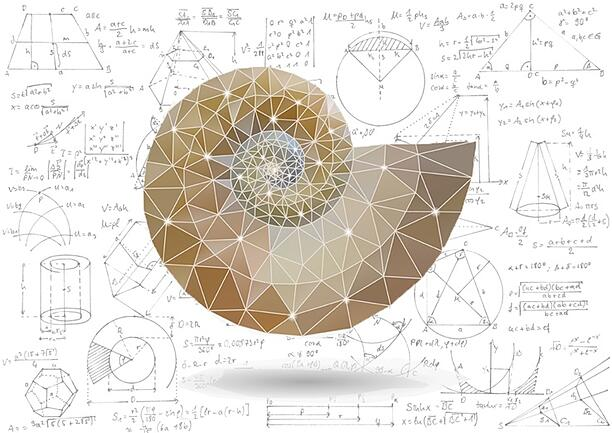
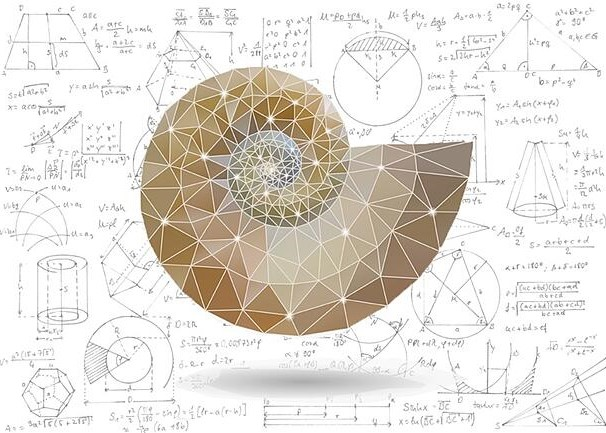
image resizing, blog post upates

diff --git a/blog.html b/blog.html
@@ -20,13 +20,16 @@
     <div class="content" id="all-blog-posts">
       <div class="blogpost-grid">
         
-        <div class="blogpost-box" style="display:none">
-          <p>Information is beatiful event?</p>
+        <div class="blogpost-box">
+          <img src="static/images/iib.jpg" class="blogpost-pic">
+          <div class="blogpost-title">Information is beatiful - the live event</div>
+          <div class="blogpost-subtitle">November 2024</div>
+          <button class="read-button blogpost-5">Read</button>
         </div>
-
+        
         <div class="blogpost-box">
             <img src="static/images/math-art.jpg" class="blogpost-pic">
-              <div class="blogpost-title">Data analysis: where mathematics meets art...</div>
+              <div class="blogpost-title">Data analysis: where mathematics meets art</div>
               <div class="blogpost-subtitle">March 2024</div>
               <button class="read-button blogpost-4">Read</button>
         </div>
@@ -44,13 +47,26 @@
         </div>
         <div class="blogpost-box">
               <img src="static/images/twitter.jpeg" class="blogpost-pic">
-              <div class="blogpost-title">How #100DaysOfCode lead to an interest in technology...</div>
+              <div class="blogpost-title">How #100DaysOfCode lead to an interest in technology</div>
               <div class="blogpost-subtitle">August 2020</div>
               <button class="read-button blogpost-1">Read</button>
         </div>     
       </div>
 
     </br></br>
+    <div class="experience-here e5" style="display: none">
+      <h2>heading here - IIB talk</h2>
+      <h4 class="blogpost-subtitle">Nov 2024</h4>
+      <p>hi</p>
+      <p>hi</p>
+      <p>hi</p>
+      <p>hi</p>
+      <p>hi</p>
+      <p>hi</p>
+        <div class="blog-backbutton">
+          <button class="read-button blogpost-back">Back</button>
+        </div>
+    </div>
     <div class="experience-here e4" style="display: none">
       <h2>heading here</h2>
       <h4 class="blogpost-subtitle">date here</h4>
@@ -330,6 +346,10 @@
 <script src="https://ajax.googleapis.com/ajax/libs/jquery/1.11.0/jquery.min.js"></script>
 <script>
     $(document).ready(function() {
+      $('.blogpost-5').click(function() {
+            $('.blogpost-grid').css('display', 'none');
+            $('.e5').fadeIn("slow");
+        });
       $('.blogpost-4').click(function() {
             $('.blogpost-grid').css('display', 'none');
             $('.e4').fadeIn("slow");
@@ -347,6 +367,7 @@
             $('.e1').fadeIn("slow");
         });
         $('.blogpost-back').click(function() {
+            $('.e5').css('display', 'none');
             $('.e4').css('display', 'none');
             $('.e3').css('display', 'none');
             $('.e2').css('display', 'none');
